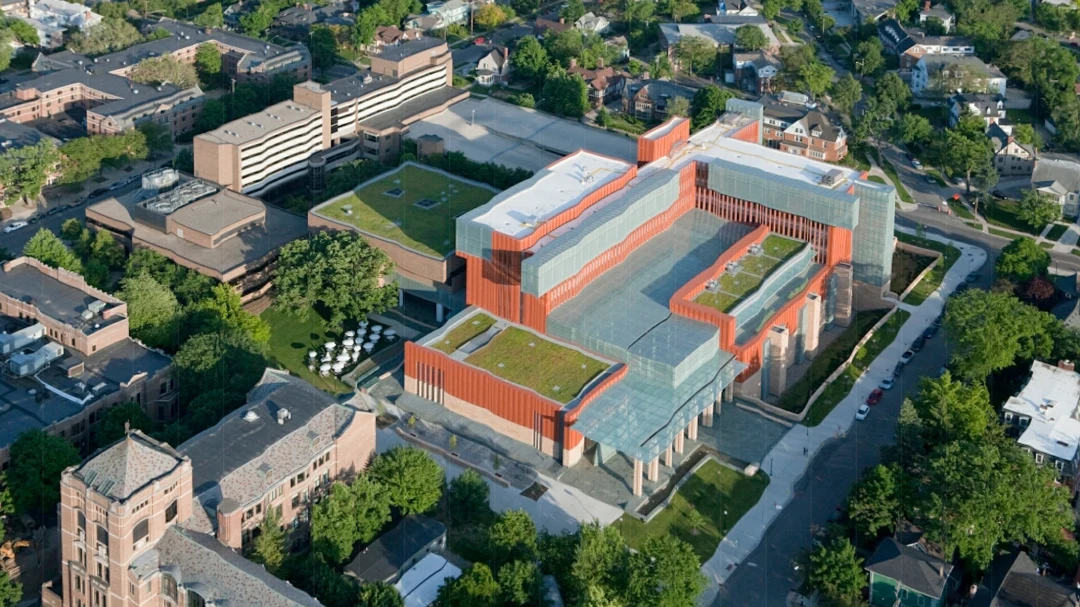
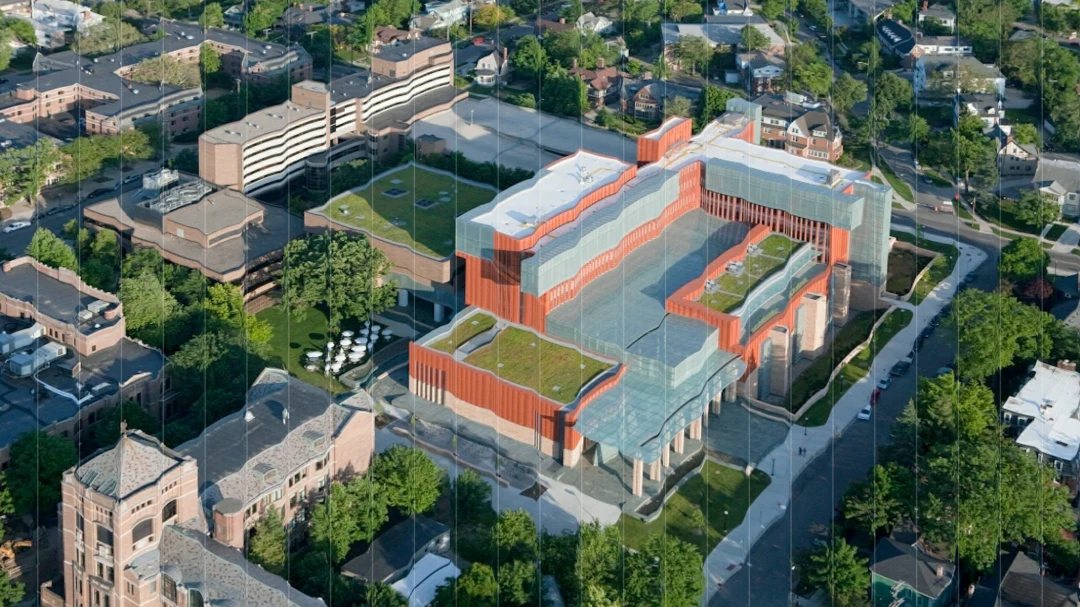
Refine hero glass and simplify accessible pause controls

diff --git a/src/pages/consulting/accessibility.css b/src/pages/consulting/accessibility.css
@@ -16,12 +16,14 @@
   width: 44px;
   height: 44px;
   flex: 0 0 44px;
-  border: 1px solid currentColor;
+  /* The visible icon is compact; the full 44px square remains clickable. */
+  border: 1px solid transparent;
   border-radius: 50%;
   color: inherit;
   margin-left: auto;
   order: 2;
 }
+.st button.st-motion-toggle:not(:disabled):hover { background: color-mix(in srgb, currentColor 9%, transparent); }
 .st button:disabled { cursor: default; }
 .st-header-inner { min-height: 144px; height: auto; padding-block: 24px; gap: 20px; }
 .st-navlinks { margin-left: 30px; gap: clamp(18px, 2.6vw, 40px); }
@@ -93,5 +95,6 @@
 @media (forced-colors: active) {
   .st :is(a, button, input, textarea, summary):focus-visible { outline: 3px solid Highlight; }
   .st :is(.st-button, .st-nav-contact, .st-motion-toggle, input, textarea) { border: 1px solid ButtonText; }
+  .st button.st-motion-toggle { border-color: ButtonText; }
   .st .st-service-card { border: 1px solid CanvasText; }
 }

diff --git a/src/pages/consulting/Studio.tsx b/src/pages/consulting/Studio.tsx
@@ -379,8 +379,8 @@ export function Studio({
             </Link>
           </nav>
           <button type="button" className="st-motion-toggle" onClick={toggleMotion}
-            aria-label={motionLabel} aria-pressed={motionPaused} disabled={deviceReducedMotion} inert={open}>
-            {motionPaused ? <Play size={18} aria-hidden="true" /> : <Pause size={18} aria-hidden="true" />}
+            aria-label={motionLabel} title={motionLabel} aria-pressed={motionPaused} disabled={deviceReducedMotion} inert={open}>
+            {motionPaused ? <Play size={16} aria-hidden="true" /> : <Pause size={16} aria-hidden="true" />}
           </button>
           <button
             className="st-menu-toggle"

diff --git a/src/features/equator/accessibility.css b/src/features/equator/accessibility.css
@@ -11,12 +11,14 @@
   width: 44px;
   height: 44px;
   margin-left: 14px;
-  border: 1px solid currentColor !important;
+  /* Keep the generous hit area while showing only the compact motion icon. */
+  border: 1px solid transparent !important;
   border-radius: 50%;
   background: transparent;
   pointer-events: auto;
   z-index: 2;
 }
+.eq-motion-toggle:not(:disabled):hover { background: color-mix(in srgb, currentColor 9%, transparent); }
 .eq-motion-toggle:disabled { cursor: default; }
 .eq-header nav { margin-left: auto; }
 .eq-site[data-motion-paused="true"] *,

diff --git a/src/features/equator/EquatorSite.tsx b/src/features/equator/EquatorSite.tsx
@@ -313,7 +313,7 @@ function Header({ home, paused, systemMotion, onToggleMotion }: { home: boolean;
         disabled={systemMotion}
         onClick={onToggleMotion}
       >
-        {paused ? <Play size={18} aria-hidden="true" /> : <Pause size={18} aria-hidden="true" />}
+        {paused ? <Play size={16} aria-hidden="true" /> : <Pause size={16} aria-hidden="true" />}
       </button>
     </header>
   );

diff --git a/docs/design/consulting/hero-photo-source.md b/docs/design/consulting/hero-photo-source.md
@@ -37,6 +37,6 @@ Source page: https://architizer.com/projects/stephen-m-ross-school-of-business-u
 Image: https://architizer-prod.imgix.net/mediadata/projects/532009/bfa13173.jpg?auto=format%2Ccompress&cs=strip&q=80&w=2160
 Source dimensions: 2160 × 1440. Retrieved September 21, 2026. Source: KPF project photography on Architizer. No individual photographer or open reuse license is identified on the project page. No open license is asserted here. This photograph records an earlier phase of the campus; no claim about its capture date or current building configuration is made in the hero.
 
-The actual Paper FlutedGlass shader is rendered at 2160 × 1440 with close pane spacing (size 0.9), distortion 0.018, shadows 0.055, and highlights 0.065. All other shader settings above are retained, with a 3,000,000 maximum pixel count. A centered 1.025× render scale trims the glass shader's edge artifacts. The restrained distortion preserves the roof geometry.
+The actual Paper FlutedGlass shader is rendered at 2160 × 1440 with close pane spacing (size 0.89), distortion 0.03, shadows 0.16, and highlights 0.24. All other shader settings above are retained, with a 3,000,000 maximum pixel count. A centered 1.025× render scale trims the glass shader's edge artifacts. Sam requested a slightly more visible paned-glass appearance after viewing the aerial hero. The stronger edge highlights and pane shading make the glass legible while restrained refraction preserves the roof geometry.
 
 WebP exports at quality 88: ross-hero-glass-2160.webp and ross-hero-glass-1080.webp use a 2160 × 1215 landscape crop beginning 70px below the rendered image's top. ross-hero-glass-mobile.webp uses the source rectangle x=780, y=0, width=1200, height=1440, exported at 900 × 1080. The native picture element selects the portrait asset on phones. The portrait fills the lower 74% of the mobile hero and fades into the navigation background, allowing more of Ross to remain visible. Desktop hero height follows 16:9 proportions within 620–1000px with a 42% vertical focal position. Both retain a gradient for legible white controls and headings. The glass treatment is baked into the images; no runtime shader is added.
